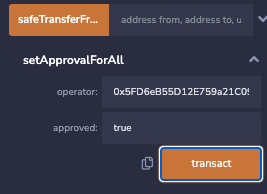
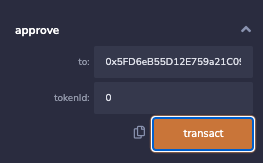
modify Lesson 38

diff --git a/38_NFTSwap/readme.md b/38_NFTSwap/readme.md
@@ -154,54 +154,63 @@ contract NFTSwap is IERC721Receiver{
 ## `Remix`实现
 
 ### 1. 部署NFT合约
-参考 [ERC721](https://github.com/AmazingAng/WTFSolidity/tree/main/34_ERC721) 教程了解NFT，并使用该教程部署发布测试WTFAPE的NFT，命名为WTF
-本文中部署成功后得到NFT地址为：`0xaE036c65C649172b43ef7156b009c6221B596B8b`，为`WTFApe`合约
-![](./img/38-1.png)
+参考 [ERC721](https://github.com/AmazingAng/WTFSolidity/tree/main/34_ERC721) 教程了解NFT，并部署`WTFApe`NFT合约。
 
-在 `WTFApe` 合约中，将首个NFT mint给自己，后续可以上架到NFTSwap。
-![](./img/38-3.png)
+![部署NFT合约](./img/38-1.png)
 
-在`WTFApe`确认自己已经获得NFT
-![](./img/38-4.png)
+将首个NFT mint给自己。
+
+![mint NFT](./img/38-2.png)
+
+利用`ownerOf`确认自己已经获得`tokenId`为0的NFT。
+
+![确认自己已经获得NFT](./img/38-3.png)
 
 ### 2. 部署`NFTSwap`合约
-本文中部署成功之后得到NFTSwap合约为 `NFTSwap` 合约
-![](./img/38-2.png)
+部署`NFTSwap`合约。
+
+![部署`NFTSwap`合约](./img/38-4.png)
 
 ### 3. 将要上架的`NFT`授权给`NFTSwap`合约
-在`WTFApe`将合约授权给 `NFTSwap` 合约,使用 `Approval`授权。将自己所有的id为0的NFT授权给交易合约。
-![](./img/38-6.png)
+在`WTFApe`合约中调用 `approve()`授权函数，将自己持有的`tokenId`为0的NFT授权给`NFTSwap`合约地址。
+
+![](./img/38-5.png)
+
 ### 4. 上架`NFT`
-将自己持有的id为0的NFT上架到`NFTSwap`合约。
+调用`NFTSwap`合约的`list()`函数，将自己持有的`tokenId`为0的NFT上架到`NFTSwap`，价格设为1 `wei`。
+
+![](./img/38-6.png)
+
+调用`NFTSwap`合约的`nftList()`函数查看上架的NFT。
+
 ![](./img/38-7.png)
 
-查看上架的NFT
+
+调用`NFTSwap`合约的`update()`函数，将NFT价格更新为77 `wei`
+
 ![](./img/38-8.png)
 
+### 5. 下架NFT
 
-更新NFT价格为77wei
-![](./img/38-11.png)
+调用`NFTSwap`合约的`revoke()`函数下架NFT。
 
-#### 测试下架NFT
-下架NFT
 ![](./img/38-9.png)
 
-再次查看NFT，就已经不存在了，如果下架NFT之后，需要重新授权`Approval`才能重新再次上架
+调用`NFTSwap`合约的`nftList()`函数，可以看到`NFT`已经下架。再次上架需要重新授权。
+
 ![](./img/38-10.png)
 
-### 5. 购买`NFT`
+### 6. 购买`NFT`
 
-切换账号，然后购买NFT
+切换账号，调用`NFTSwap`合约的`purchase()`函数购买NFT，购买时需要输入`NFT`合约地址，`tokenId`，并输入支付的`ETH`。
 
-因为之前已经更新过价格为77wei了，这里带上价格之后，发起购买
+![](./img/38-11.png)
+
+### 7. 验证`NFT`持有人改变
+
+购买成功之后，调用`WTFApe`合约的`ownerOf()`函数，可以看到`NFT`持有者发生变化，购买成功！
+
 ![](./img/38-12.png)
-
-### 6. 验证`NFT`持有人改变
-
-购买成功之后，通过`WTFApe`合约查看所有者发生变化
-由最初的`0x5B38Da6a701c568545dCfcB03FcB875f56beddC4`变为购买者 `0xAb8483F64d9C6d1EcF9b849Ae677dD3315835cb2`
-
-![](./img/38-13.png)
 
 ## 总结
 这一讲，我们建立了一个零手续费的去中心化`NFT`交易所。`OpenSea`虽然对`NFT`的发展做了很大贡献，但它的缺点也非常明显：高手续费、不发币回馈用户、交易机制容易被钓鱼导致用户资产丢失。目前`Looksrare`和`dydx`等新的`NFT`交易平台正在挑战`OpenSea`的位置，`Uniswap`也在研究新的`NFT`交易所。相信不久的将来，我们会用到更好的`NFT`交易所。
